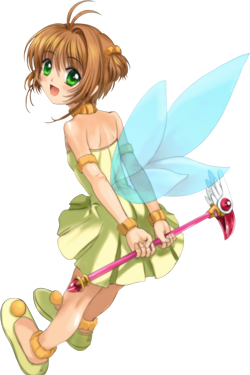
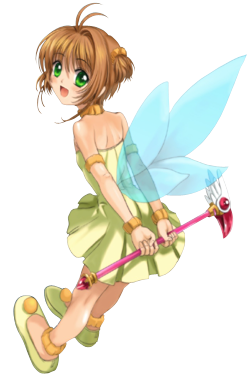
Fixed poor Sakura's foot

diff --git a/options.css b/options.css
@@ -14,7 +14,7 @@ url('http://i.imgur.com/TQ6pJ.png')
 /* Kagamine Rin: */
 url('http://i.imgur.com/fXXd2.png')
 /* Kinomoto Sakura: */
-url('http://i.imgur.com/pn1GB.png')
+url('http://i.imgur.com/Ve0hl.png')
 /* Shana: */
 url('http://i.imgur.com/k3fgX.png')
 /* Ika Musume: */
